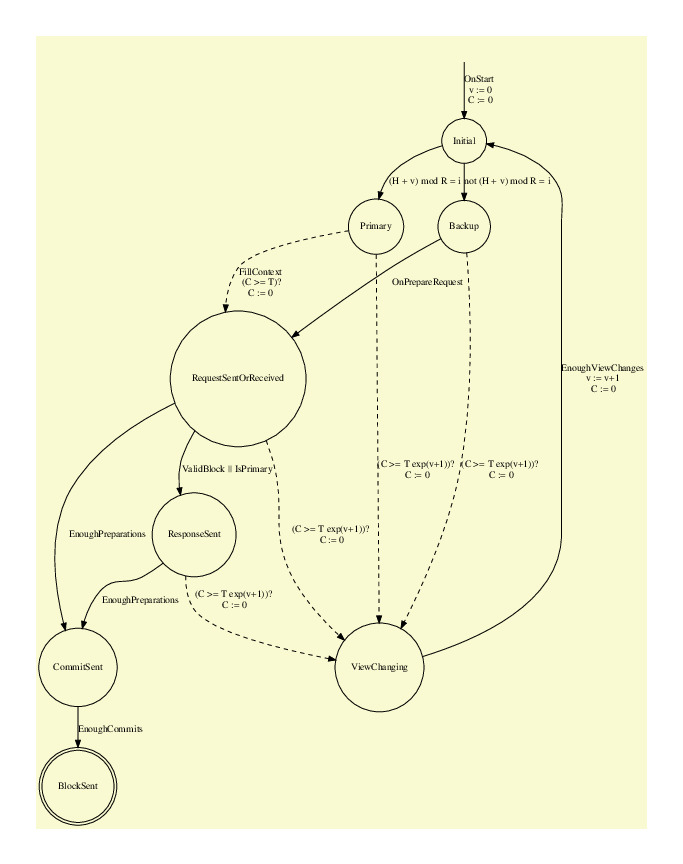
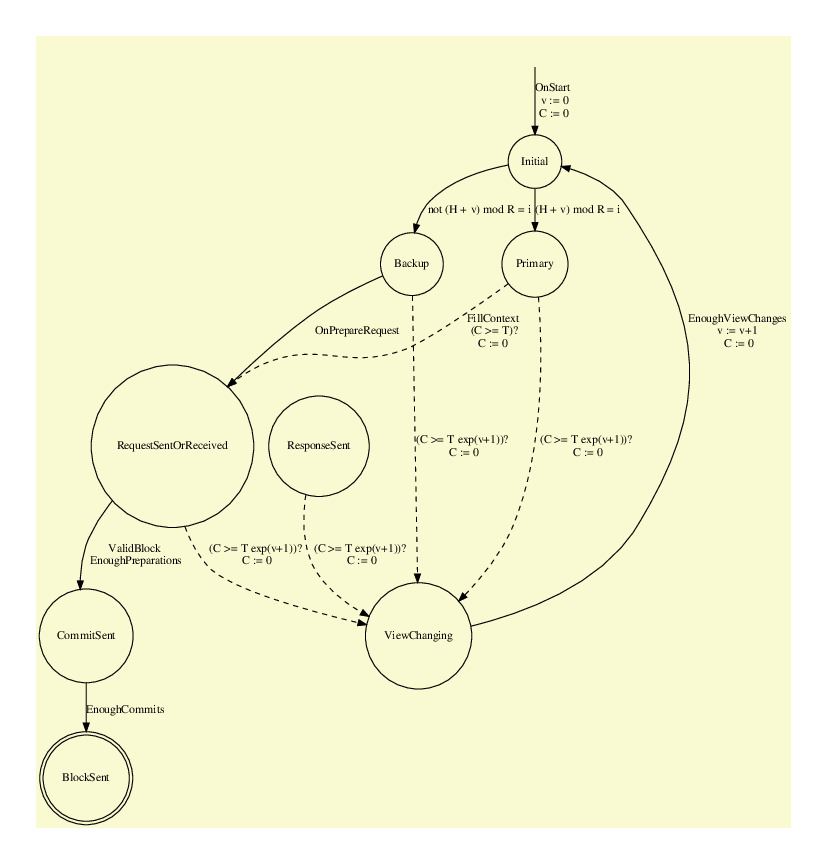
Removing ResponseSent internal state

diff --git a/sections/08_dBFT.md b/sections/08_dBFT.md
@@ -92,13 +92,15 @@ dBFT states are the following:
 
 * RequestSentOrReceived : true if a valid signature of Primary has been received, false otherwise (introduced on dBFT 2.0).
 
-* ResponseSent : true if block header confirmation has been sent (such block pre-confirmation was only introduced on dBFT 2.0)
+* ResponseSent : true if block header confirmation has been sent (introduced on dBFT 2.0: internal state used only for blocking node to triggering consensus OnTransaction event)
 
 * CommitSent : true if block signature has been sent (this state was only introduced on dBFT 2.0 and replaced SignatureSent)
 
 * BlockSent : true if block has been sent, false otherwise
 
 * ViewChanging : true if view change mechanism has been triggered, false otherwise
+
+* IsRecovering : true if a valid recovery payload was received and is being processed (introduced on dBFT 2.0: internal state)
 
 
 The first dBFT handled these states explicitly as flags (ConsensusState enum).
@@ -126,9 +128,7 @@ digraph dBFT {
 	Initial -> Backup [ label = "not (H + v) mod R = i" ];
 	Primary -> RequestSentOrReceived [ label = "FillContext\n (C >= T)?\nC := 0", style="dashed" ];
 	Backup -> RequestSentOrReceived [ label = "OnPrepareRequest" ];
-	RequestSentOrReceived -> ResponseSent [ label = "ValidBlock || IsPrimary" ];
-	ResponseSent -> CommitSent [ label = "EnoughPreparations" ];
-	RequestSentOrReceived -> CommitSent [ label = "EnoughPreparations" ];
+	RequestSentOrReceived -> CommitSent [ label = "ValidBlock\n EnoughPreparations" ];
 	CommitSent -> BlockSent [ label = "EnoughCommits" ];
 	ViewChanging -> Initial [ label = "EnoughViewChanges\n v := v+1 \n C := 0" ];
   RequestSentOrReceived -> ViewChanging [ label = "(C >= T exp(v+1))?\n C := 0", style="dashed" ];
@@ -242,7 +242,7 @@ digraph dBFT {
 	node [shape = circle]; Initial;
   node [shape = doublecircle]; CommitSent;
 	node [shape = circle];
-  Empty -> RecoverLog [label = "OnStart\n Checking data in local db"];
+  Empty -> RecoverLog [label = "OnStart\n Checking data in local db", style="dashed"];
   RecoverLog -> Initial [label = "InitializeConsensus(0)"];
   RecoverLog -> CommitSent [label = "store has\nEnoughPreparations"];
   RecoverLog -> ViewChanging [ label = "v := 0\n C := 0", style="dashed" ];
@@ -252,7 +252,7 @@ digraph dBFT {
   Primary -> ViewChanging [label = "(C >= T exp(v+1))?\n C := 0", style="dashed"];
 	Primary -> RequestSent [ label = "FillContext\n (C >= T)?\nC := 0", style="dashed" ];
   RequestSent -> ViewChanging [ label = "(C >= T exp(v+1) - T)?\n C := 0", style="dashed" ];  
-	ViewChanging -> Recover [ label = "May trig recovers" ];
+	ViewChanging -> Recover [ label = "May trig recovers", style="dashed" ];
   Recover -> Backup [ label = "If receiving nodes already have Header" ];
   Recover -> Initial [ label = "If EnoughViewChanges\n v := v + ? \n C := 0" ];
   Recover -> CommitSent [ label = "\nEnoughViewChanges\n v := v + ? \n C := 0\nEnoughPreparations\n Possibly some commits" ];
